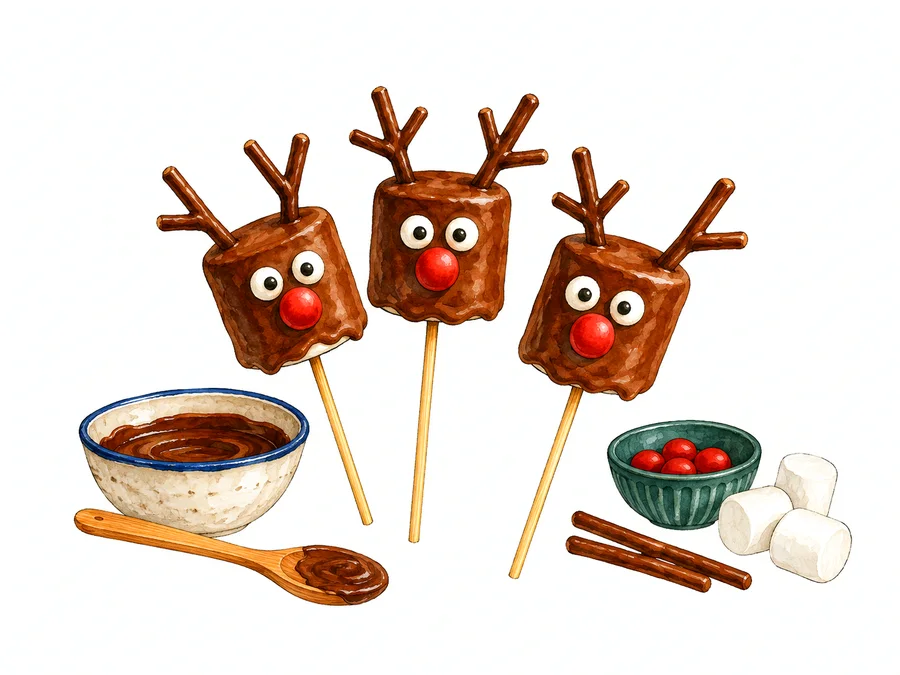
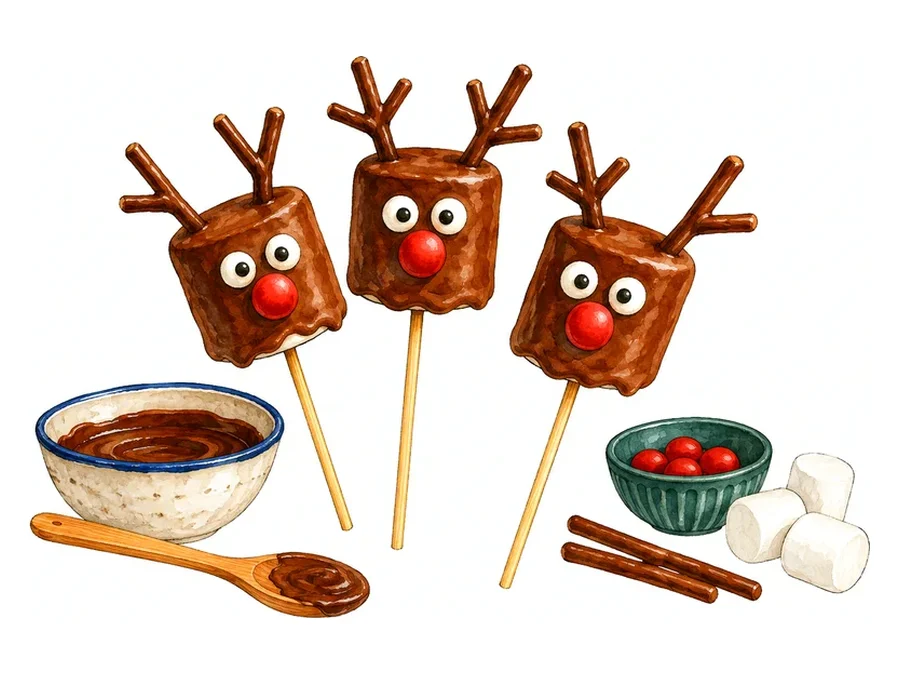
Center choose card art and clear number tags on desktop

Changed region(s): [[0.0311, 0.0622, 0.9644, 0.9333]]

diff --git a/index.html b/index.html
@@ -366,7 +366,7 @@
       .choose-card { display: flex; flex-direction: column; padding: 0 20px 16px; }
       .choose-card__body { display: flex; flex: 1; flex-direction: column; }
       .choose-card__go { margin-top: auto; }
-      .choose-card__art { margin-bottom: 6px; transform: none; }
+      .choose-card__art { margin: 40px 0 10px; transform: none; }
       .recipe-layout { grid-template-columns: .8fr 1.2fr; align-items: start; }
       .movie-box { grid-template-columns: 1.1fr .9fr; align-items: center; }
       .word-grid { grid-template-columns: repeat(4, minmax(0, 1fr)); gap: 16px; }
